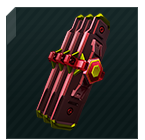
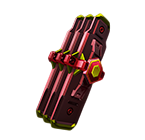
feat: パーツリストのワンクッションボーダーをオレンジに、全解除時のソート順を修正

diff --git a/src/components/PartList.jsx b/src/components/PartList.jsx
@@ -52,7 +52,6 @@ const ImageWithFallback = ({ partName, level, className }) => {
                 src={src}
                 alt={partName}
                 className={`w-full h-full object-cover ${className || ''}`}
-                // 画像がロード済みでない場合にのみエラーハンドラを呼び出す
                 onError={hasLoaded ? null : handleError}
                 onLoad={handleLoad}
             />
@@ -74,14 +73,37 @@ const PartList = ({
     selectedMs,
     currentSlotUsage,
     onPreviewSelect,
-    isPartDisabled, // useAppDataから渡されるisPartDisabled関数
+    isPartDisabled,
 }) => {
-    if (!parts || !Array.isArray(parts)) {
-        return <p className="text-gray-200">パーツデータがありません。</p>;
-    }
-
     // 装備中判定
     const isSelected = (part) => selectedParts.some(p => p.name === part.name);
+
+    // ワンクッション用state
+    const [lastActionedPartName, setLastActionedPartName] = React.useState(null);
+    const [actionType, setActionType] = React.useState(null); // 'equip' or 'unequip'
+
+    // ★ 追加: selectedPartsが空になったらワンクッション状態をリセット
+    React.useEffect(() => {
+        if (selectedParts.length === 0 && lastActionedPartName !== null) {
+            setLastActionedPartName(null);
+            setActionType(null);
+        }
+    }, [selectedParts, lastActionedPartName]); // lastActionedPartNameも依存配列に含める
+
+    // 装備時の処理をラップ（ワンクッション動作対応）
+    const handleSelect = (part) => {
+        const currentlySelected = isSelected(part);
+
+        if (!currentlySelected) { // 今から装備する場合
+            setLastActionedPartName(part.name);
+            setActionType('equip');
+        } else { // 今から解除する場合
+            // 解除時はワンクッション状態をリセットし、通常のソート位置に戻す
+            setLastActionedPartName(null);
+            setActionType(null);
+        }
+        onSelect(part); // 親コンポーネントのonSelectを呼び出す
+    };
 
     // スロットオーバー判定
     const willCauseSlotOverflow = (part) => {
@@ -122,19 +144,14 @@ const PartList = ({
 
     // 装備可能（未装備）判定
     const isEquipable = (part) => {
-        if (isSelected(part)) return false; // 既に選択されている場合は装備可能ではない
-        // isPartDisabled は useAppData で定義されている総合的な併用不可判定
-        // isPartDisabled が関数として渡されていることを確認
-        if (typeof isPartDisabled === 'function' && isPartDisabled(part, selectedParts)) return false; // 併用不可の場合
-        if (willCauseSlotOverflow(part)) return false; // スロットオーバーの場合
-        if (isPartLimitReached) return false; // パーツ数上限の場合
-        if (hasSameKind(part)) return false; // kind重複の場合
-        if (isCategorySpecificPartDisabled(part)) return false; // カテゴリ特攻の制限
+        if (isSelected(part)) return false; // 装備済みの場合は装備可能ではない
+        if (typeof isPartDisabled === 'function' && isPartDisabled(part, selectedParts)) return false;
+        if (willCauseSlotOverflow(part)) return false;
+        if (isPartLimitReached) return false;
+        if (hasSameKind(part)) return false;
+        if (isCategorySpecificPartDisabled(part)) return false;
         return true;
     };
-
-    // 装備不能判定 (selectedPartsに含まれておらず、isEquipableでないもの)
-    const isNotEquipable = (part) => !isSelected(part) && !isEquipable(part);
 
     // 使用スロット合計
     const getSlotSum = (part) =>
@@ -143,47 +160,116 @@ const PartList = ({
     // 属性取得
     const getCategory = (part) => part.category || '';
 
-    // ソートのためのグループ分け
-    const equipableParts = parts
-        .filter(part => isEquipable(part))
-        .sort((a, b) => {
-            const slotDiff = getSlotSum(b) - getSlotSum(a);
-            if (slotDiff !== 0) return slotDiff;
-            return getCategoryOrder(getCategory(a)) - getCategoryOrder(getCategory(b));
-        });
-
-    const selectedPartsGroup = parts
-        .filter(part => isSelected(part))
-        .sort((a, b) => {
-            const slotDiff = getSlotSum(b) - getSlotSum(a);
-            if (slotDiff !== 0) return slotDiff;
-            return getCategoryOrder(getCategory(a)) - getCategoryOrder(getCategory(b));
-        });
-
-    // 「併用不可」と「装備不可」を明確に区別し、優先度を付けてソート
+    // 「併用不可」と「装備不可」の優先度付け
     const getNotEquipablePriority = (part) => {
-        if (isSelected(part)) return 3; // 選択済みは最後
-        // isPartDisabled が関数として渡されていることを確認
-        if (typeof isPartDisabled === 'function' && isPartDisabled(part)) return 0; // useAppDataのisPartDisabledで不可とされたものが最優先（併用不可扱い）
-        if (willCauseSlotOverflow(part)) return 1; // スロットオーバー
-        if (isPartLimitReached) return 1; // 装備数上限
-        if (hasSameKind(part)) return 0; // kind重複も併用不可扱い (isPartDisabledでカバーされる場合もあるが、明示的に)
-        if (isCategorySpecificPartDisabled(part)) return 1; // カテゴリ特攻の制限
-        return 2; // その他の装備不可
+        // isSelected(part)の場合はこの関数が呼ばれない前提だが、念のため
+        if (isSelected(part)) return -1; // 装備中は優先度を無視（このソートでは装備済みは別のグループになるため）
+
+        // 併用不可が最も高い優先度（最も下に表示される）
+        if (typeof isPartDisabled === 'function' && isPartDisabled(part, selectedParts)) return 0;
+        if (hasSameKind(part)) return 0; // kind重複も併用不可と同等に扱う
+
+        // スロットオーバー、カテゴリ特攻プログラムは次に高い優先度
+        if (willCauseSlotOverflow(part) || isCategorySpecificPartDisabled(part) || isPartLimitReached) return 1;
+
+        // それ以外（装備可能ではないが上記理由でないもの）は低い優先度
+        return 2;
     };
 
-    const notEquipableParts = parts
-        .filter(part => !isSelected(part) && !isEquipable(part)) // 装備可能でなく、かつ選択されていないパーツ
-        .sort((a, b) => {
-            const priorityDiff = getNotEquipablePriority(a) - getNotEquipablePriority(b);
-            if (priorityDiff !== 0) return priorityDiff;
-            const slotDiff = getSlotSum(b) - getSlotSum(a);
-            if (slotDiff !== 0) return slotDiff;
-            return getCategoryOrder(getCategory(a)) - getCategoryOrder(getCategory(b));
-        });
 
-    // 結合
-    const sortedParts = [...equipableParts, ...selectedPartsGroup, ...notEquipableParts];
+    // 最終的なソートロジック (useMemoでメモ化)
+    const sortedParts = React.useMemo(() => {
+        if (!Array.isArray(parts) || parts.length === 0) {
+            return [];
+        }
+
+        // ここで全てのパーツをソートし直す
+        return [...parts].sort((a, b) => {
+            const aSelected = isSelected(a);
+            const bSelected = isSelected(b);
+            const aEquipable = isEquipable(a);
+            const bEquipable = isEquipable(b);
+
+            // ワンクッション対象かどうかを最優先で判定
+            const aIsLastActioned = (lastActionedPartName === a.name && actionType === 'equip');
+            const bIsLastActioned = (lastActionedPartName === b.name && actionType === 'equip');
+
+            // === 1. メインのグループ分け順序 ===
+            // 優先度高: 装備直後に装備されたパーツ (その場に固定)
+            // 次: 装備可能 (未装備)
+            // 次: その他の装備済みパーツ
+            // 優先度低: 装備不可 (未装備)
+
+            let aGroup, bGroup;
+
+            if (aIsLastActioned) {
+                aGroup = 0; // 最優先グループ
+            } else if (aEquipable) {
+                aGroup = 1; // 装備可能
+            } else if (aSelected) {
+                aGroup = 2; // その他の装備済み
+            } else {
+                aGroup = 3; // 装備不可
+            }
+
+            if (bIsLastActioned) {
+                bGroup = 0; // 最優先グループ
+            } else if (bEquipable) {
+                bGroup = 1;
+            } else if (bSelected) {
+                bGroup = 2;
+            } else {
+                bGroup = 3;
+            }
+
+            if (aGroup !== bGroup) {
+                return aGroup - bGroup;
+            }
+
+            // === 2. 各グループ内での詳細ソート ===
+            // (aGroup === bGroup の場合のみ実行)
+
+            // グループ0: 装備直後パーツ (最大1つなので、この比較には通常到達しないが念のため)
+            if (aGroup === 0) {
+                 // スロット消費量降順 (このグループもソートは適用)
+                 const slotDiff = getSlotSum(b) - getSlotSum(a);
+                 if (slotDiff !== 0) return slotDiff;
+                 return a.name.localeCompare(b.name);
+            }
+
+            // グループ1: 装備可能パーツ (スロット消費量降順 -> カテゴリ順 -> 名前順)
+            if (aGroup === 1) {
+                const slotDiff = getSlotSum(b) - getSlotSum(a);
+                if (slotDiff !== 0) return slotDiff;
+                const categoryDiff = getCategoryOrder(getCategory(a)) - getCategoryOrder(getCategory(b));
+                if (categoryDiff !== 0) return categoryDiff;
+                return a.name.localeCompare(b.name);
+            }
+
+            // グループ2: その他の装備済みパーツ (スロット消費量降順 -> カテゴリ順 -> 名前順)
+            if (aGroup === 2) {
+                const slotDiff = getSlotSum(b) - getSlotSum(a);
+                if (slotDiff !== 0) return slotDiff;
+                const categoryDiff = getCategoryOrder(getCategory(a)) - getCategoryOrder(getCategory(b));
+                if (categoryDiff !== 0) return categoryDiff;
+                return a.name.localeCompare(b.name);
+            }
+
+            // グループ3: 装備不可パーツ (優先度昇順 -> スロット消費量降順 -> カテゴリ順 -> 名前順)
+            if (aGroup === 3) {
+                const priorityDiff = getNotEquipablePriority(a) - getNotEquipablePriority(b);
+                if (priorityDiff !== 0) return priorityDiff;
+                const slotDiff = getSlotSum(b) - getSlotSum(a);
+                if (slotDiff !== 0) return slotDiff;
+                const categoryDiff = getCategoryOrder(getCategory(a)) - getCategoryOrder(getCategory(b));
+                if (categoryDiff !== 0) return categoryDiff;
+                return a.name.localeCompare(b.name);
+            }
+
+            return 0; // 念のため
+        });
+    }, [parts, selectedParts, lastActionedPartName, actionType, isSelected, isEquipable, getSlotSum, getCategory, getNotEquipablePriority]);
+
 
     return (
         <div className="flex-grow w-full partlist-card-shape">
@@ -196,7 +282,6 @@ const PartList = ({
                         {sortedParts.map((part) => {
                             const selected = isSelected(part);
                             const partHovered = hoveredPart && hoveredPart.name === part.name;
-                            // isPartDisabledで併用不可を判定（selectedPartsを渡す）
                             const disabledByCombination = typeof isPartDisabled === 'function' && isPartDisabled(part, selectedParts) && !selected;
                             const disabledByKind = hasSameKind(part) && !selected;
                             const disabledByOtherReasons = !selected && !isEquipable(part) && !disabledByCombination && !disabledByKind;
@@ -204,7 +289,9 @@ const PartList = ({
                             const levelMatch = part.name.match(/_LV(\d+)/);
                             const partLevel = levelMatch ? parseInt(levelMatch[1], 10) : undefined;
 
-                            // 「併用不可」または「装備不可」の場合にボタンを無効化
+                            // ワンクッション表示の条件: 最後に装備したパーツであり、かつ「装備」アクションだった場合
+                            const showOneShotEffect = lastActionedPartName === part.name && actionType === 'equip';
+
                             const showMutualExclusiveOverlay = disabledByCombination || disabledByKind;
                             const showNotEquipableOverlay = disabledByOtherReasons;
                             const reallyDisabled = selected ? false : (showMutualExclusiveOverlay || showNotEquipableOverlay);
@@ -216,16 +303,16 @@ const PartList = ({
                                         w-16 h-16 aspect-square
                                         bg-gray-800
                                         ${reallyDisabled ? 'cursor-not-allowed' : 'cursor-pointer'}
+                                        ${showOneShotEffect ? 'animate-pulse border-2 border-orange-400' : ''} {/* ワンクッション（装備直後） */}
+                                        ${selected && !showOneShotEffect ? '' : ''} {/* 装備中のボーダーはなし */}
                                     `}
                                     onClick={() => {
                                         if (!reallyDisabled || selected) {
-                                            onSelect(part);
+                                            handleSelect(part);
                                         }
-                                        // ホバー・装備不可でもプレビューは有効
                                         onPreviewSelect?.(part);
                                     }}
                                     onMouseEnter={() => {
-                                        // ホバー・装備不可でもプレビューは有効
                                         if (selected) {
                                             onHover?.(part, 'selectedParts');
                                         } else {
@@ -258,8 +345,8 @@ const PartList = ({
                                         </div>
                                     )}
 
-                                    {/* ホバー時のオレンジ半透明レイヤー */}
-                                    {partHovered && !selected && !showNotEquipableOverlay && !showMutualExclusiveOverlay && (
+                                    {/* ホバー時のオレンジ半透明レイヤー (ワンクッション表示と重複しないように調整) */}
+                                    {partHovered && !selected && !showNotEquipableOverlay && !showMutualExclusiveOverlay && !showOneShotEffect && (
                                         <div className="absolute inset-0 flex items-center justify-center bg-orange-500 bg-opacity-60 text-gray-200 text-base z-20 pointer-events-none">
                                             <span className="[text-shadow:1px_1px_2px_black] flex flex-col items-center justify-center leading-tight space-y-1">
                                                 <span>装 備</span>
@@ -268,7 +355,7 @@ const PartList = ({
                                         </div>
                                     )}
 
-                                    {/* 装備中の表示 */}
+                                    {/* 装備中の表示 (ワンクッション表示と重ねて表示) */}
                                     {selected && (
                                         <div className="absolute inset-0 flex items-center justify-center bg-gray-700 bg-opacity-70 text-neon-offwhite text-base z-20 pointer-events-none">
                                             <span className="[text-shadow:1px_1px_2px_black] flex flex-col items-center justify-center leading-tight space-y-1">

diff --git a/src/components/StatusDisplay.jsx b/src/components/StatusDisplay.jsx
@@ -195,7 +195,7 @@ const StatusDisplay = ({
 
           <div className="grid grid-cols-7 gap-2 py-1 items-center border-b border-gray-700 last:border-b-0">
             <div className="col-span-full text-md text-right text-gray-200 pr-2">
-              <span className="font-semibold">格闘判定力：</span>
+              <span className="font-semibold">判定：</span>
               <span className="font-bold mr-8">{selectedMs["格闘判定力"] || '-'}</span>
               <span className="font-semibold">カウンター：</span>
               <span className="font-bold">{selectedMs["カウンター"] || '-'}</span>
